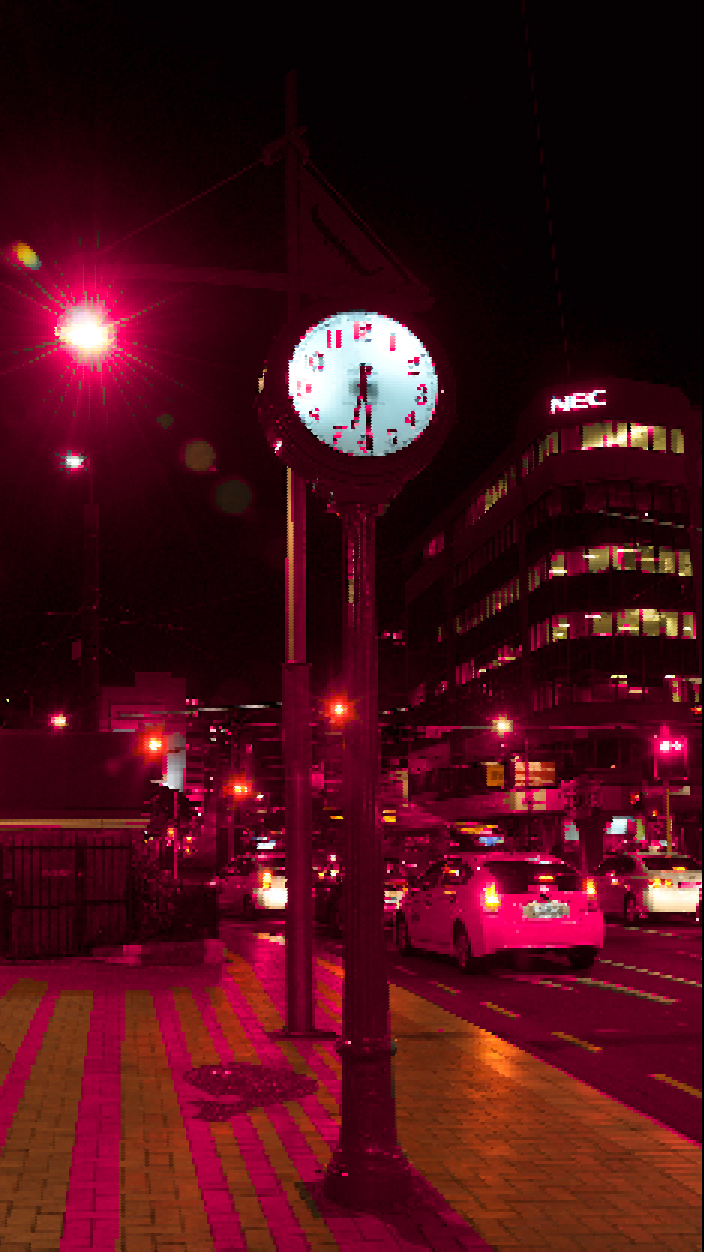
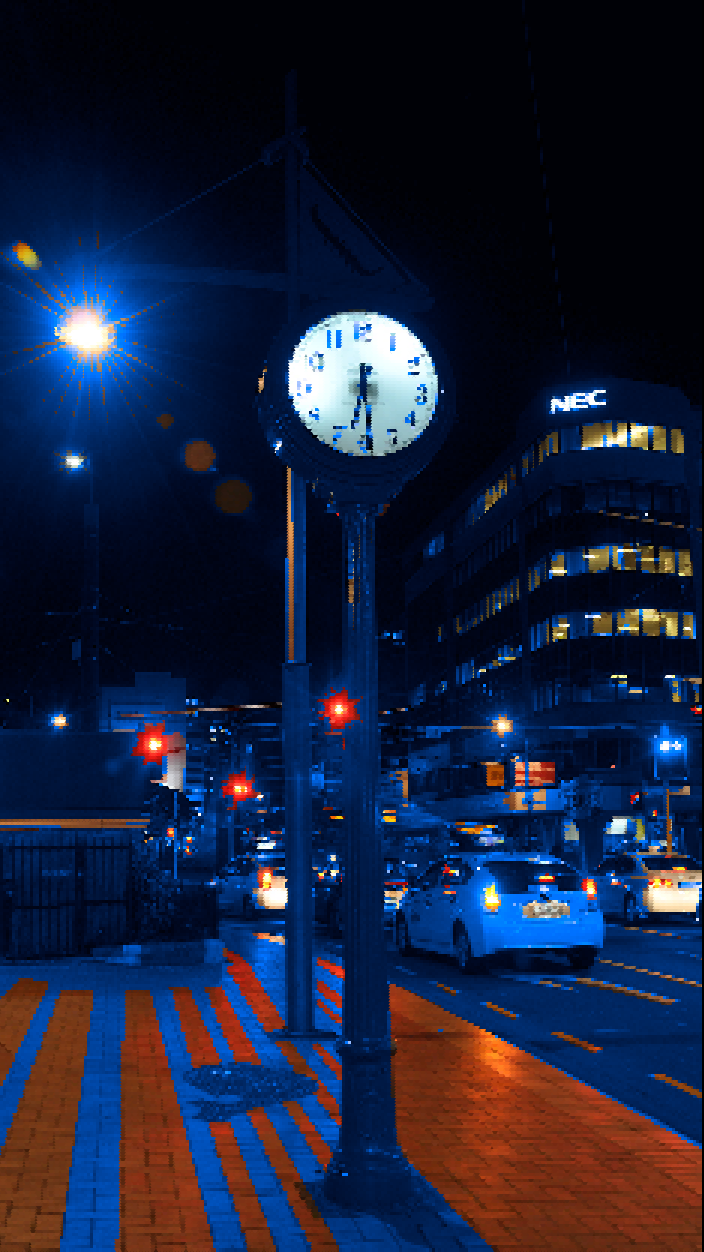
final

diff --git a/sketch.js b/sketch.js
@@ -8,9 +8,9 @@ let triangleSize = 6;
 let halfSize = squareSize / 2; 
 let halfSize2 = triangleSize / 2; 
 
-let sourceFile = "input_3.jpg";
-let maskFile   = "mask_3.png";
-let outputFile = "artwork_3.png";
+let sourceFile = "input_2.jpg";
+let maskFile   = "mask_2.png";
+let outputFile = "artwork_2.png";
 
 function preload() {
 sourceImg = loadImage(sourceFile);
@@ -52,7 +52,7 @@ function draw () {
         x = x+dx; y = y+dy;
         
         let hsluvColor = convertRgbToHsluv(pix);
-        fillHsluv(0,125, hsluvColor[2]);
+        fillHsluv(20,125, hsluvColor[2]);
         rect(x-halfSize, y-halfSize, squareSize, squareSize);
       }
     }

diff --git a/README.md b/README.md
@@ -1,7 +1,25 @@
-## Creative Coding 2: Custom Pixel
+## Night Courtenay
 
-I tred again with a combination of rectangles and ellipses, and the
-results feel like real photos. When you look at it from a distance,
-you don't see any traces of modification, and there is no pixel
-effect. This is an attempt to realistically present the original
-picture.
+Some people like quiet nights and others like boisterous nights.
+Wellington is a diversified city. Of course, the nightlife is always
+colorful.
+
+I wanted to enrich my work with characters, but then I found the night
+and the lights more matching. I hope to show a different Wellington
+through a sharp contrast of light colors. I took dozens of photos as
+an alternative, and finally selected the three photos that best
+reflected the lighting effects as the final version. I think that dark
+and bright lights can stimulate people's vision.
+
+I used Photoshop to cut out the photos, which took me a long time
+because I hope to be able to show the details more comprehensively and
+the effect will be better.
+
+The initial effects of the experiment were not particularly
+noticeable, and then the combination of a rectangle and a triangle was
+tried to show the result of a pixel.
+
+Regarding the color experiment, I tried a combination of multiple
+colors and finally selected image one to image three. From the first
+to the third, there is a sharp contrast between red and blue, and
+there is a process of progressive divergence.
